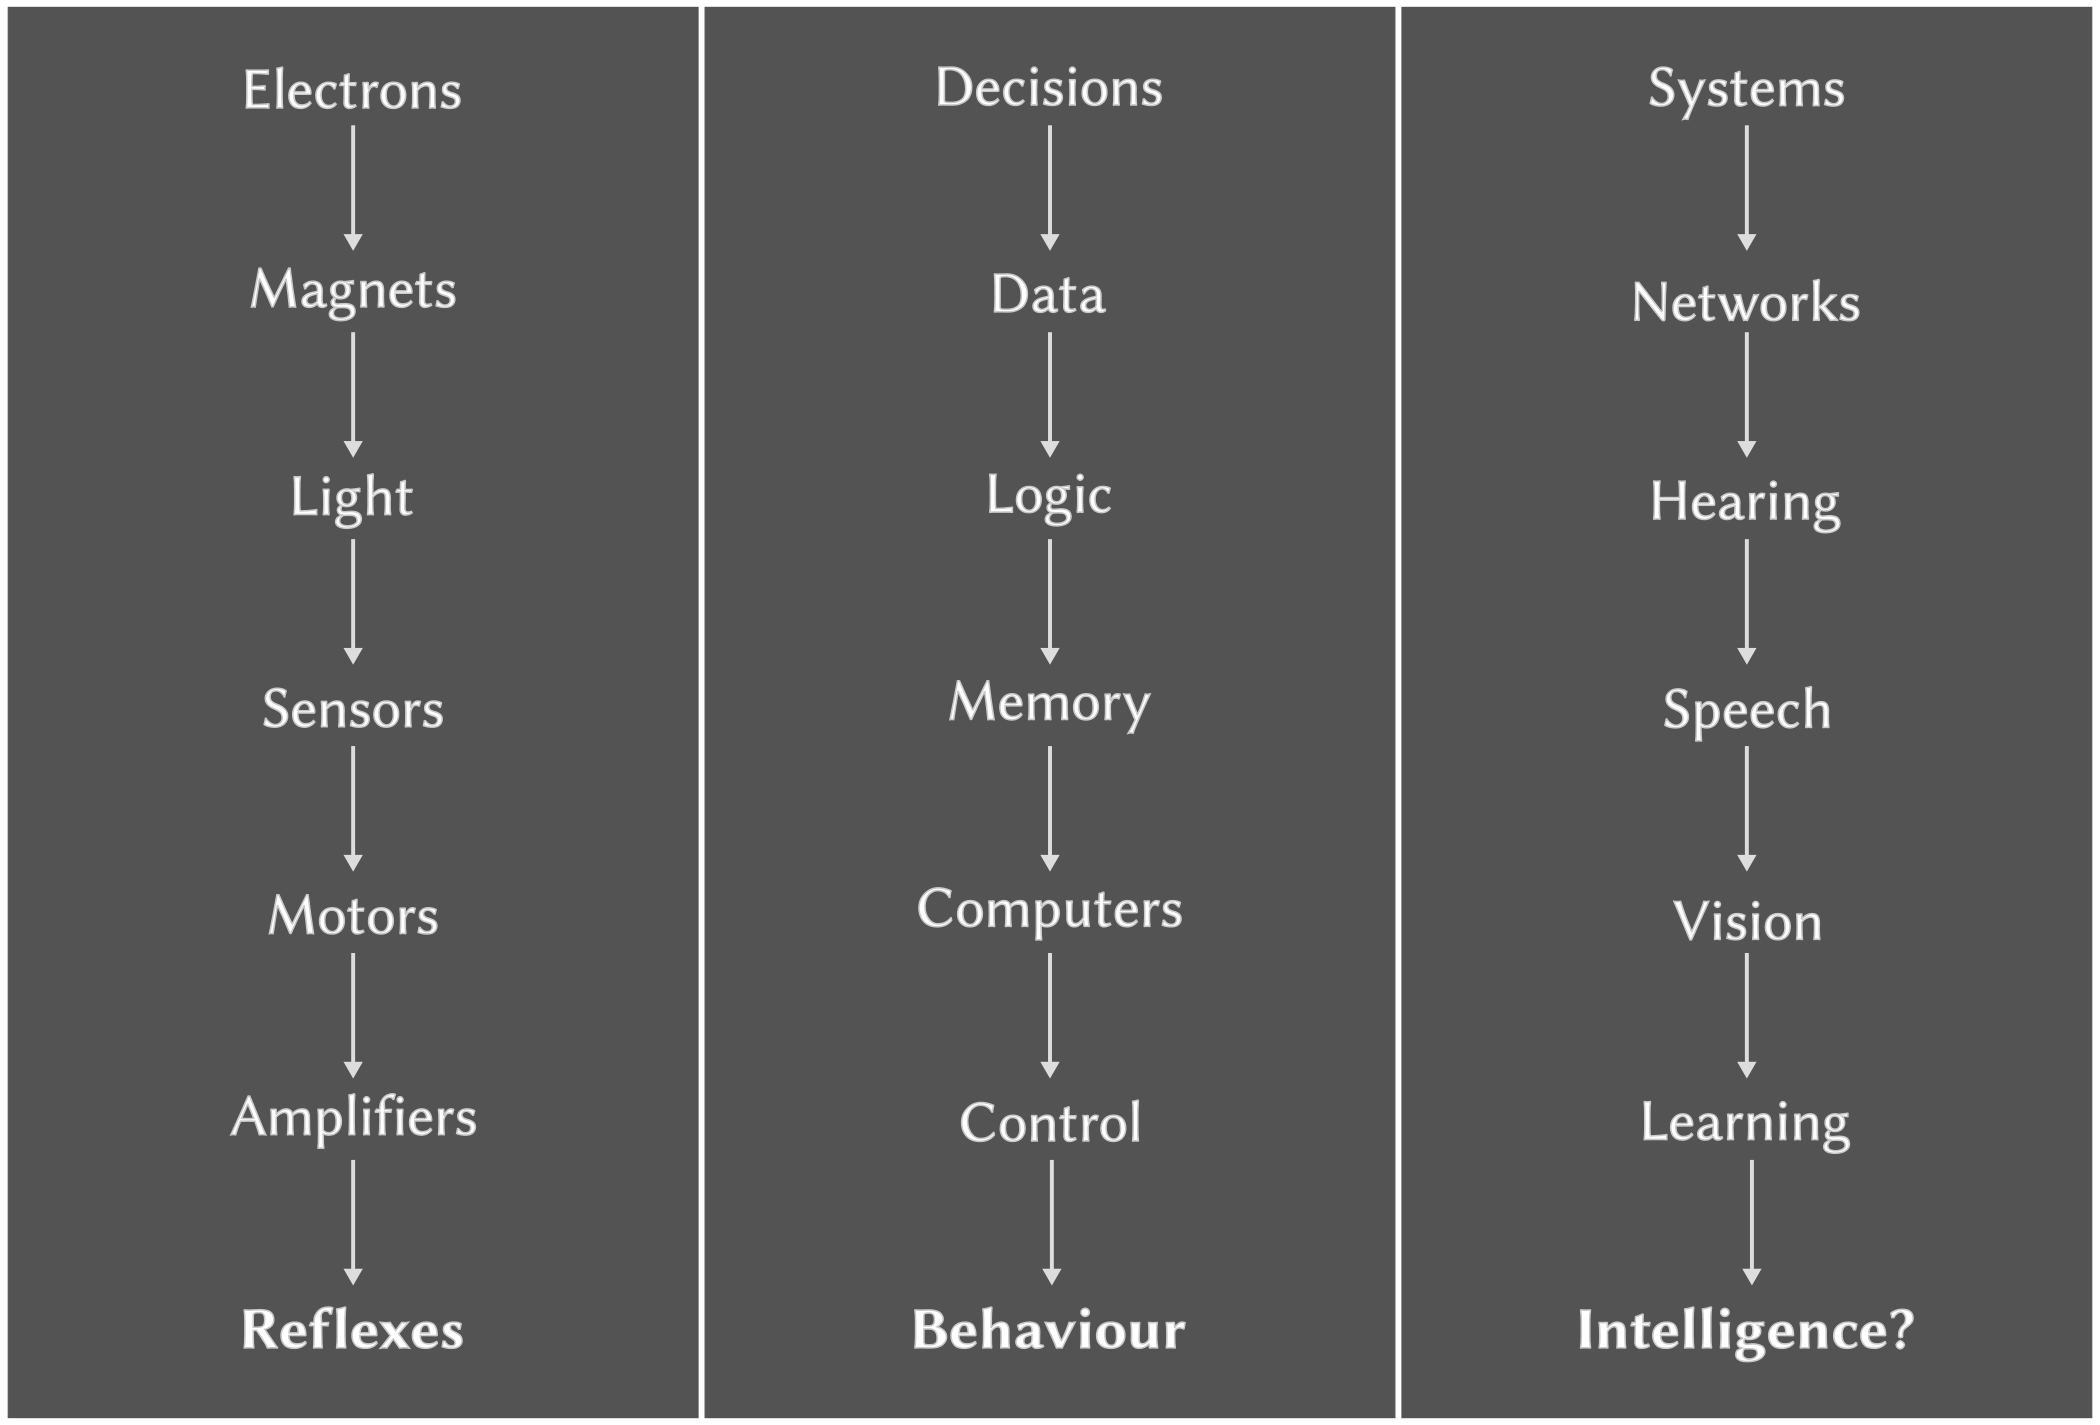
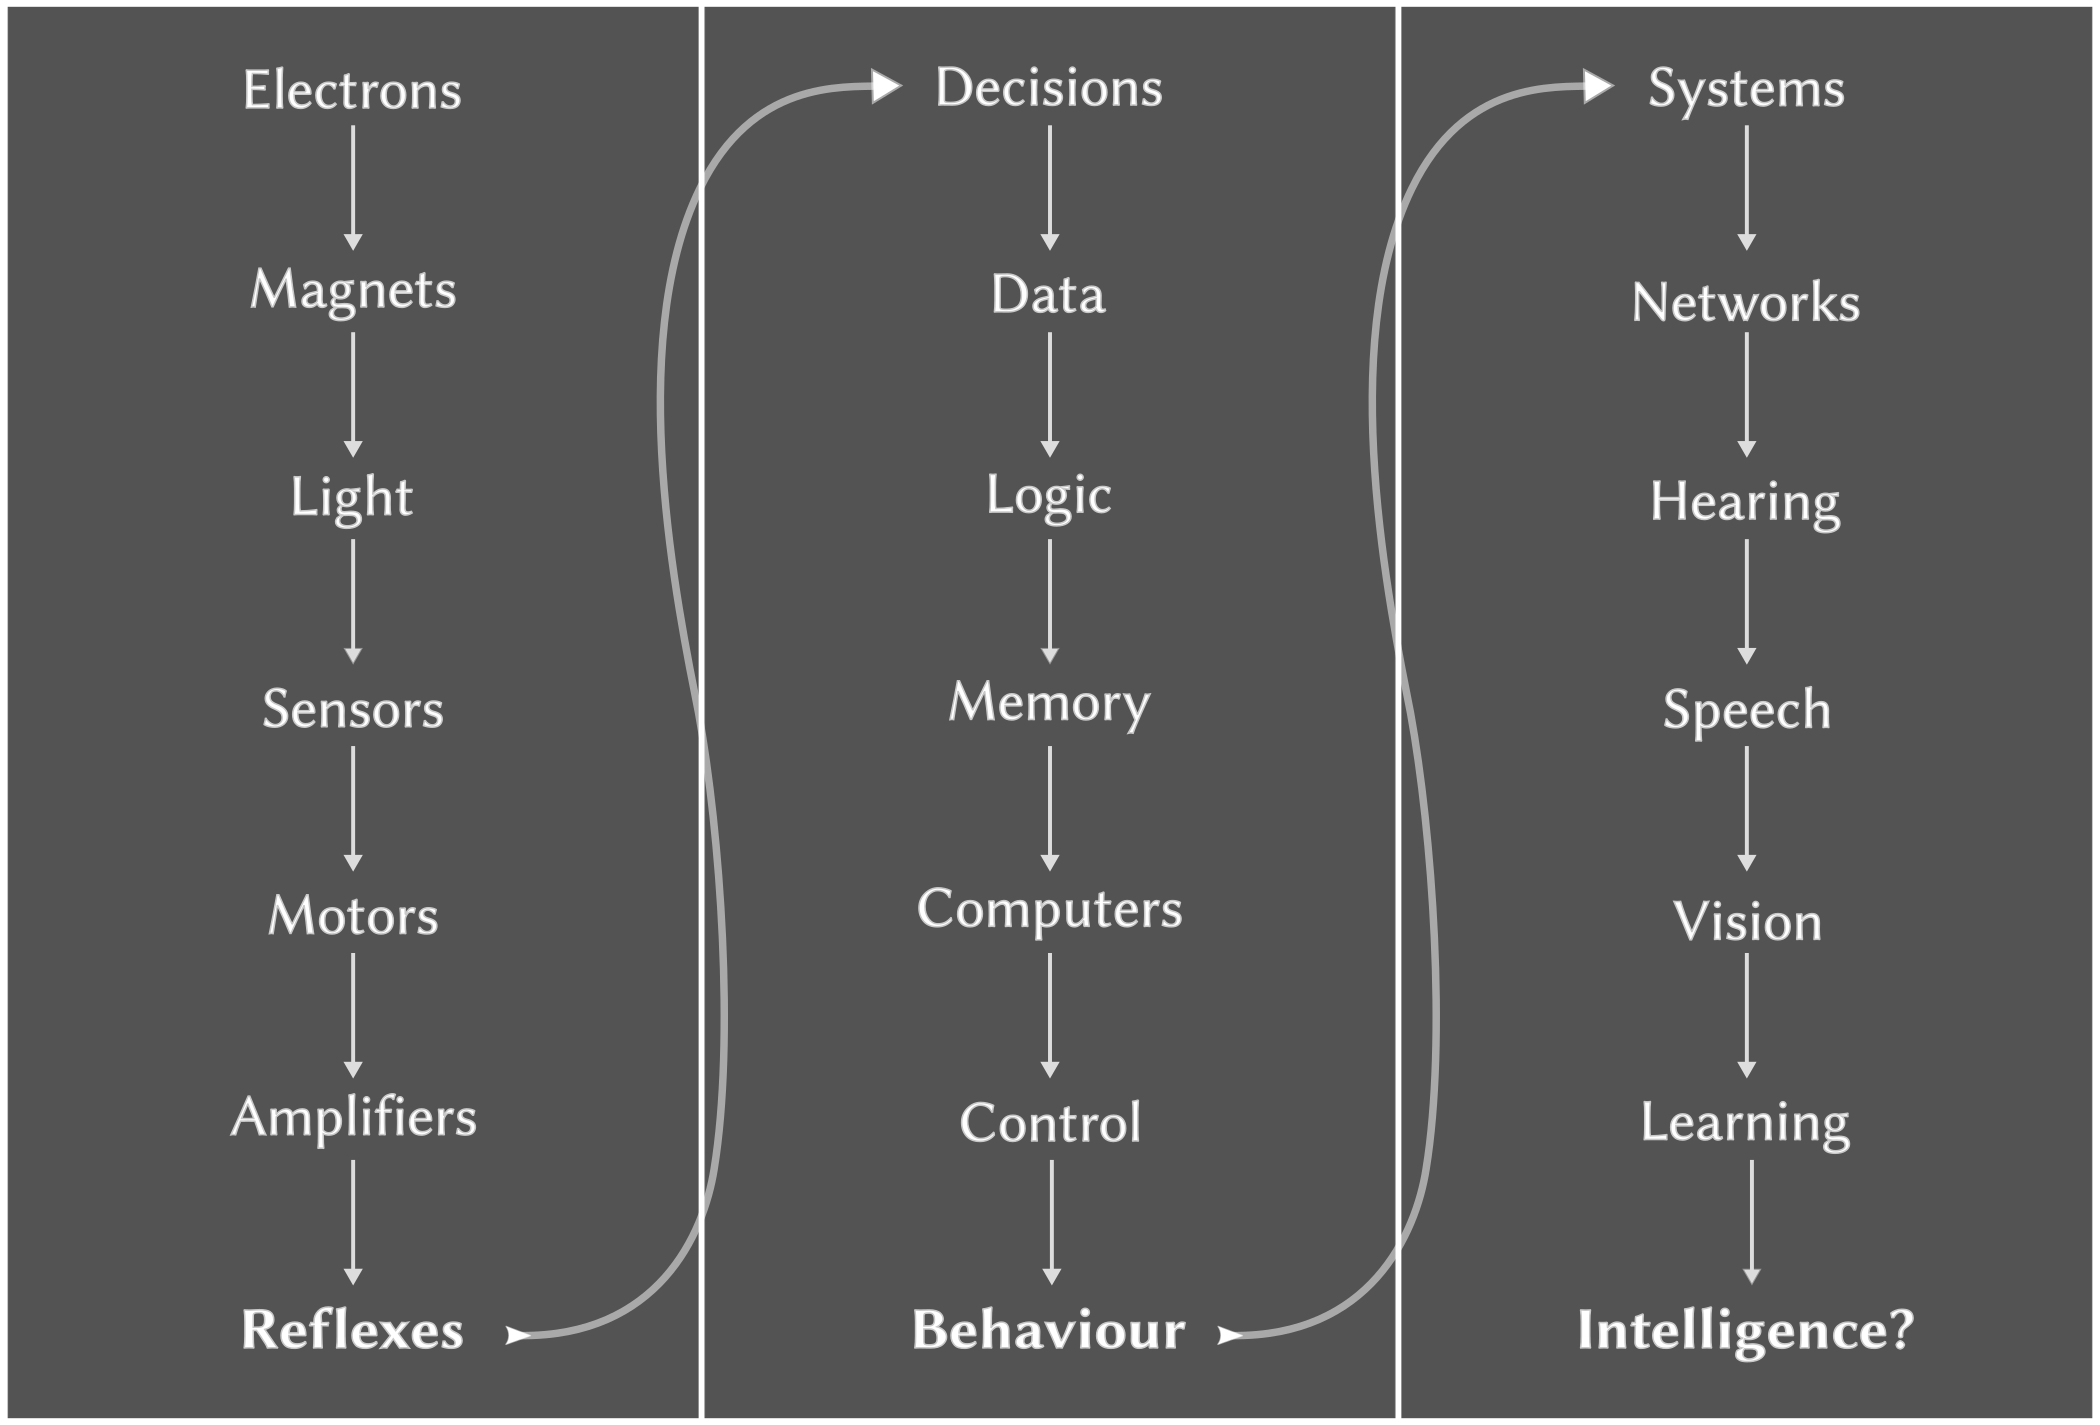
Updated layout figure and course page

diff --git a/course/README.md b/course/README.md
@@ -1,16 +1,18 @@
 # The Last Black Box Course
 
-A set of black boxes to open in sequence
-
-----
-
-## Boxes
+> A kit containing a collection of black boxes that you "open" in sequence.
 
 <p align="center">
 <img src="designs/layout/layout.png" alt="Example Image" width="500" height="375">
 </p>
 
 ----
+
+## NB3
+
+You will be building a robot. The robot's physical layout mimics the basic anatomy of a (vertebrate) brain. As you progress through the "boxes", your robot will *evolve* into an increasingly sophisticated machine. The goal of this course is to create an "intelligent" machine without using any "black boxes". We thus call this robot the No-Black-Box-Bot or NBBB or ***NB3***.
+
+## Boxes
 
 Hindbrain|Midbrain|Forebrain|
 ---------|--------|---------|
@@ -21,8 +23,6 @@ Hindbrain|Midbrain|Forebrain|
 [5. Motors](/boxes/motors/README.md)|[12. Control](/boxes/control/README.md)|[19. Vision](/boxes/vision/README.md)
 [6. Amplifiers](/boxes/amplifiers/README.md)|[13. Computers](/boxes/computers/README.md)|[20. Learning](/boxes/learning/README.md)
 [7. **Reflexes**](/boxes/reflexes/README.md)|[14. **Behaviour**](/boxes/behaviour/README.md)|[21. **Intelligence?**](/boxes/intelligence/README.md)
-
-### Descriptions
 
 1. **Electrons**
 

diff --git a/README.md b/README.md
@@ -1,12 +1,18 @@
 # The Last Black Box
 
-A course for brains interested in brains (not for tools interested in tools)
+> *A course for brains interested in brains (not for tools interested in tools)*
 
 <p align="center">
-<img src="course/designs/logo/icon.png" alt="LBB" width="400" height="300">
+<img src="course/designs/logo/icon.png" alt="LBB" width="200" height="150">
 </p>
 
-This is course in neuroscience and technology.
+## Goals
+
+This is course about neuroscience *and* technology. You will learn about the brain by building an increasingly complex robot.
+
+## Principles
+
+> ***"No Black Boxes"***
 
 ## Prerequisites
 
@@ -14,8 +20,8 @@ A variety of tools (hardware and software) will be required to complete the cour
 
 ----
 
-<p align="center">
-<a href="course/README.md"><b>Start the course!</b></a>
+<p align="center" style="font-size:32px">
+<a href="course/README.md" style="color: #111111; background: #eeeeee"><b>Start the course!</b></a>
 </p>
 
 ----
